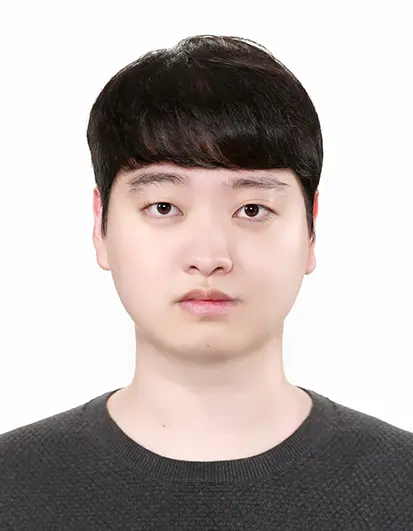
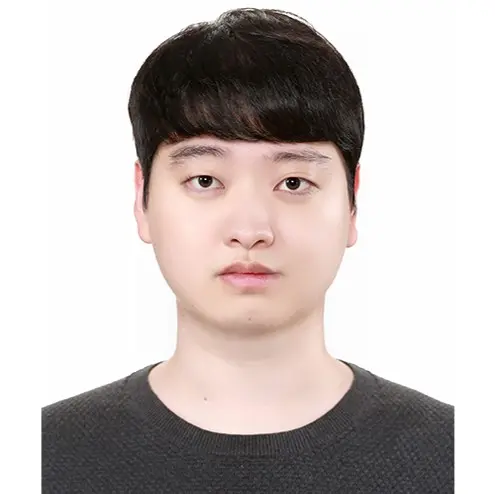
Deploying to gh-pages from @ wooseoko/wooseoko.github.io@730e02e3a853a47fd84349afb3dc7826c92dd033 🚀

Changed region(s): [[0.0, 0.0, 1.0, 1.0], [0.4068, 0.4555, 0.5811, 0.6073], [0.3777, 0.8502, 0.6392, 0.8806]]

diff --git a/blog/2024/tabs/index.html b/blog/2024/tabs/index.html
@@ -19,16 +19,16 @@ Content 2
 <span class="cp">{%</span><span class="w"> </span><span class="nt">endtab</span><span class="w"> </span><span class="cp">%}</span>
 
 <span class="cp">{%</span><span class="w"> </span><span class="nt">endtabs</span><span class="w"> </span><span class="cp">%}</span>
-</code></pre></div></div> <p>With this you can generate visualizations like:</p> <ul id="log" class="tab" data-tab="db6fb8b9-263d-4b99-9659-1e528dee1ef8" data-name="log"> <li class="active" id="log-php"> <a href="#">php </a> </li> <li id="log-js"> <a href="#">js </a> </li> <li id="log-ruby"> <a href="#">ruby </a> </li> </ul> <ul class="tab-content" id="db6fb8b9-263d-4b99-9659-1e528dee1ef8" data-name="log"> <li class="active"> <div class="language-php highlighter-rouge"><div class="highlight"><pre class="highlight"><code><span class="nb">var_dump</span><span class="p">(</span><span class="s1">'hello'</span><span class="p">);</span>
+</code></pre></div></div> <p>With this you can generate visualizations like:</p> <ul id="log" class="tab" data-tab="b5159fd2-4899-4e4c-800e-6d6f61d3722c" data-name="log"> <li class="active" id="log-php"> <a href="#">php </a> </li> <li id="log-js"> <a href="#">js </a> </li> <li id="log-ruby"> <a href="#">ruby </a> </li> </ul> <ul class="tab-content" id="b5159fd2-4899-4e4c-800e-6d6f61d3722c" data-name="log"> <li class="active"> <div class="language-php highlighter-rouge"><div class="highlight"><pre class="highlight"><code><span class="nb">var_dump</span><span class="p">(</span><span class="s1">'hello'</span><span class="p">);</span>
 </code></pre></div></div> </li> <li> <div class="language-javascript highlighter-rouge"><div class="highlight"><pre class="highlight"><code><span class="nx">console</span><span class="p">.</span><span class="nf">log</span><span class="p">(</span><span class="dl">"</span><span class="s2">hello</span><span class="dl">"</span><span class="p">);</span>
 </code></pre></div></div> </li> <li> <div class="language-javascript highlighter-rouge"><div class="highlight"><pre class="highlight"><code><span class="nx">pputs</span> <span class="dl">'</span><span class="s1">hello</span><span class="dl">'</span>
-</code></pre></div></div> </li> </ul> <h2 id="another-example">Another example</h2> <ul id="data-struct" class="tab" data-tab="84087827-c1df-4ecc-9564-791a2fa6b5cb" data-name="data-struct"> <li class="active" id="data-struct-yaml"> <a href="#">yaml </a> </li> <li id="data-struct-json"> <a href="#">json </a> </li> </ul> <ul class="tab-content" id="84087827-c1df-4ecc-9564-791a2fa6b5cb" data-name="data-struct"> <li class="active"> <div class="language-yaml highlighter-rouge"><div class="highlight"><pre class="highlight"><code><span class="na">hello</span><span class="pi">:</span>
+</code></pre></div></div> </li> </ul> <h2 id="another-example">Another example</h2> <ul id="data-struct" class="tab" data-tab="c7e196fa-abf6-471b-ac77-4539e5d44a09" data-name="data-struct"> <li class="active" id="data-struct-yaml"> <a href="#">yaml </a> </li> <li id="data-struct-json"> <a href="#">json </a> </li> </ul> <ul class="tab-content" id="c7e196fa-abf6-471b-ac77-4539e5d44a09" data-name="data-struct"> <li class="active"> <div class="language-yaml highlighter-rouge"><div class="highlight"><pre class="highlight"><code><span class="na">hello</span><span class="pi">:</span>
   <span class="pi">-</span> <span class="s2">"</span><span class="s">whatsup"</span>
   <span class="pi">-</span> <span class="s2">"</span><span class="s">hi"</span>
 </code></pre></div></div> </li> <li> <div class="language-json highlighter-rouge"><div class="highlight"><pre class="highlight"><code><span class="p">{</span><span class="w">
   </span><span class="nl">"hello"</span><span class="p">:</span><span class="w"> </span><span class="p">[</span><span class="s2">"whatsup"</span><span class="p">,</span><span class="w"> </span><span class="s2">"hi"</span><span class="p">]</span><span class="w">
 </span><span class="p">}</span><span class="w">
-</span></code></pre></div></div> </li> </ul> <h2 id="tabs-for-something-else">Tabs for something else</h2> <ul id="something-else" class="tab" data-tab="be1ae5fd-ae4f-4596-b5bb-e21af83265f5" data-name="something-else"> <li class="active" id="something-else-text"> <a href="#">text </a> </li> <li id="something-else-quote"> <a href="#">quote </a> </li> <li id="something-else-list"> <a href="#">list </a> </li> </ul> <ul class="tab-content" id="be1ae5fd-ae4f-4596-b5bb-e21af83265f5" data-name="something-else"> <li class="active"> <p>Regular text</p> </li> <li> <blockquote> <p>A quote</p> </blockquote> </li> <li> <p>Hipster list</p> <ul> <li>brunch</li> <li>fixie</li> <li>raybans</li> <li>messenger bag</li> </ul> </li> </ul> </div> </article> <br> <hr> <br> <h2 class="text-3xl font-semibold mb-4 mt-12">Enjoy Reading This Article?</h2> <p class="mb-2">Here are some more articles you might like to read next:</p> <ul class="list-disc pl-7 my-3 space-y-2 marker:text-[var(--global-theme-color)]"> <li class="leading-relaxed"> <a class="underline decoration-1 hover:text-[var(--global-hover-color)]" href="https://blog.google/technology/ai/google-gemini-update-flash-ai-assistant-io-2024/" target="_blank" rel="noopener noreferrer">Google Gemini updates: Flash 1.5, Gemma 2 and Project Astra</a> <svg width="1rem" height="1rem" viewbox="0 0 30 30" xmlns="http://www.w3.org/2000/svg" aria-hidden="true"> <path d="M17 13.5v6H5v-12h6m3-3h6v6m0-6-9 9" class="icon_svg-stroke" stroke="#999" stroke-width="1.5" fill="none" fill-rule="evenodd" stroke-linecap="round" stroke-linejoin="round"></path> </svg> </li> <li class="leading-relaxed"> <a class="underline decoration-1 hover:text-[var(--global-hover-color)]" href="https://medium.com/@al-folio/displaying-external-posts-on-your-al-folio-blog-b60a1d241a0a?source=rss-17feae71c3c4------2" target="_blank" rel="noopener noreferrer">Displaying External Posts on Your al-folio Blog</a> <svg width="1rem" height="1rem" viewbox="0 0 30 30" xmlns="http://www.w3.org/2000/svg" aria-hidden="true"> <path d="M17 13.5v6H5v-12h6m3-3h6v6m0-6-9 9" class="icon_svg-stroke" stroke="#999" stroke-width="1.5" fill="none" fill-rule="evenodd" stroke-linecap="round" stroke-linejoin="round"></path> </svg> </li> <li class="leading-relaxed"> <a class="underline decoration-1 hover:text-[var(--global-hover-color)]" href="/blog/2025/marimo/">a post with marimo snippets</a> </li> <li class="leading-relaxed"> <a class="underline decoration-1 hover:text-[var(--global-hover-color)]" href="/blog/2025/plotly/">a post with plotly.js</a> </li> <li class="leading-relaxed"> <a class="underline decoration-1 hover:text-[var(--global-hover-color)]" href="/blog/2024/photo-gallery/">a post with image galleries</a> </li> <li class="leading-relaxed"> <a class="underline decoration-1 hover:text-[var(--global-hover-color)]" href="/blog/2024/typograms/">a post with typograms</a> </li> <li class="leading-relaxed"> <a class="underline decoration-1 hover:text-[var(--global-hover-color)]" href="/blog/2024/post-citation/">a post that can be cited</a> </li> <li class="leading-relaxed"> <a class="underline decoration-1 hover:text-[var(--global-hover-color)]" href="/blog/2024/pseudocode/">a post with pseudo code</a> </li> <li class="leading-relaxed"> <a class="underline decoration-1 hover:text-[var(--global-hover-color)]" href="/blog/2024/code-diff/">a post with code diff</a> </li> <li class="leading-relaxed"> <a class="underline decoration-1 hover:text-[var(--global-hover-color)]" href="/blog/2024/advanced-images/">a post with advanced image components</a> </li> </ul> </div> </div> <footer class="fixed-bottom" role="contentinfo"> <div class="container mt-0"> © Copyright 2026 Wooseok Oh. Powered by <a href="https://jekyllrb.com/" target="_blank" rel="external nofollow noopener">Jekyll</a> with <a href="https://github.com/alshedivat/al-folio" rel="external nofollow noopener" target="_blank">al-folio</a> theme. Hosted by <a href="https://pages.github.com/" target="_blank" rel="external nofollow noopener">GitHub Pages</a>. Photos from <a href="https://unsplash.com" target="_blank" rel="external nofollow noopener">Unsplash</a>. </div> </footer> <script>
+</span></code></pre></div></div> </li> </ul> <h2 id="tabs-for-something-else">Tabs for something else</h2> <ul id="something-else" class="tab" data-tab="8fc05041-0a38-4eff-8840-cad3de08f34a" data-name="something-else"> <li class="active" id="something-else-text"> <a href="#">text </a> </li> <li id="something-else-quote"> <a href="#">quote </a> </li> <li id="something-else-list"> <a href="#">list </a> </li> </ul> <ul class="tab-content" id="8fc05041-0a38-4eff-8840-cad3de08f34a" data-name="something-else"> <li class="active"> <p>Regular text</p> </li> <li> <blockquote> <p>A quote</p> </blockquote> </li> <li> <p>Hipster list</p> <ul> <li>brunch</li> <li>fixie</li> <li>raybans</li> <li>messenger bag</li> </ul> </li> </ul> </div> </article> <br> <hr> <br> <h2 class="text-3xl font-semibold mb-4 mt-12">Enjoy Reading This Article?</h2> <p class="mb-2">Here are some more articles you might like to read next:</p> <ul class="list-disc pl-7 my-3 space-y-2 marker:text-[var(--global-theme-color)]"> <li class="leading-relaxed"> <a class="underline decoration-1 hover:text-[var(--global-hover-color)]" href="https://blog.google/technology/ai/google-gemini-update-flash-ai-assistant-io-2024/" target="_blank" rel="noopener noreferrer">Google Gemini updates: Flash 1.5, Gemma 2 and Project Astra</a> <svg width="1rem" height="1rem" viewbox="0 0 30 30" xmlns="http://www.w3.org/2000/svg" aria-hidden="true"> <path d="M17 13.5v6H5v-12h6m3-3h6v6m0-6-9 9" class="icon_svg-stroke" stroke="#999" stroke-width="1.5" fill="none" fill-rule="evenodd" stroke-linecap="round" stroke-linejoin="round"></path> </svg> </li> <li class="leading-relaxed"> <a class="underline decoration-1 hover:text-[var(--global-hover-color)]" href="https://medium.com/@al-folio/displaying-external-posts-on-your-al-folio-blog-b60a1d241a0a?source=rss-17feae71c3c4------2" target="_blank" rel="noopener noreferrer">Displaying External Posts on Your al-folio Blog</a> <svg width="1rem" height="1rem" viewbox="0 0 30 30" xmlns="http://www.w3.org/2000/svg" aria-hidden="true"> <path d="M17 13.5v6H5v-12h6m3-3h6v6m0-6-9 9" class="icon_svg-stroke" stroke="#999" stroke-width="1.5" fill="none" fill-rule="evenodd" stroke-linecap="round" stroke-linejoin="round"></path> </svg> </li> <li class="leading-relaxed"> <a class="underline decoration-1 hover:text-[var(--global-hover-color)]" href="/blog/2025/marimo/">a post with marimo snippets</a> </li> <li class="leading-relaxed"> <a class="underline decoration-1 hover:text-[var(--global-hover-color)]" href="/blog/2025/plotly/">a post with plotly.js</a> </li> <li class="leading-relaxed"> <a class="underline decoration-1 hover:text-[var(--global-hover-color)]" href="/blog/2024/photo-gallery/">a post with image galleries</a> </li> <li class="leading-relaxed"> <a class="underline decoration-1 hover:text-[var(--global-hover-color)]" href="/blog/2024/typograms/">a post with typograms</a> </li> <li class="leading-relaxed"> <a class="underline decoration-1 hover:text-[var(--global-hover-color)]" href="/blog/2024/post-citation/">a post that can be cited</a> </li> <li class="leading-relaxed"> <a class="underline decoration-1 hover:text-[var(--global-hover-color)]" href="/blog/2024/pseudocode/">a post with pseudo code</a> </li> <li class="leading-relaxed"> <a class="underline decoration-1 hover:text-[var(--global-hover-color)]" href="/blog/2024/code-diff/">a post with code diff</a> </li> <li class="leading-relaxed"> <a class="underline decoration-1 hover:text-[var(--global-hover-color)]" href="/blog/2024/advanced-images/">a post with advanced image components</a> </li> </ul> </div> </div> <footer class="fixed-bottom" role="contentinfo"> <div class="container mt-0"> © Copyright 2026 Wooseok Oh. Powered by <a href="https://jekyllrb.com/" target="_blank" rel="external nofollow noopener">Jekyll</a> with <a href="https://github.com/alshedivat/al-folio" rel="external nofollow noopener" target="_blank">al-folio</a> theme. Hosted by <a href="https://pages.github.com/" target="_blank" rel="external nofollow noopener">GitHub Pages</a>. Photos from <a href="https://unsplash.com" target="_blank" rel="external nofollow noopener">Unsplash</a>. </div> </footer> <script>
   window.alFolio = {
     compatBootstrap: false
   };

diff --git a/index.html b/index.html
@@ -138,7 +138,7 @@
       height: 135px !important;
     }
   }
-</style> <div class="post about-shell"> <aside class="about-sidebar"> <div class="about-sidebar-photo"> <figure> <picture> <source class="responsive-img-srcset" srcset="/assets/img/wooseoko_image-480.webp 480w,/assets/img/wooseoko_image-800.webp 800w,/assets/img/wooseoko_image-1400.webp 1400w," type="image/webp" sizes="95vw"> <img src="/assets/img/wooseoko_image.jpg?v=096bd6573fbfdfebadfa8861d97404bf" class="img-fluid z-depth-1" width="100%" height="auto" alt="wooseoko_image.jpg" loading="eager" onerror="this.onerror=null; document.querySelectorAll('.responsive-img-srcset').forEach(function (n) { n.remove(); });"> </source></picture> </figure> </div> <div class="about-sidebar-details"> <div class="social"> <div class="contact-icons"> <a href="/assets/pdf/cv_wooseoko.pdf" title="Cv pdf"><i class="ai ai-cv"></i></a> <a href="mailto:wooseok.oh@rllab.snu.ac.kr" title="Email"><i class="fa-solid fa-envelope"></i></a> <a href="https://scholar.google.com/citations?user=pdu5u58AAAAJ" title="Scholar userid" rel="external nofollow noopener" target="_blank"><i class="ai ai-google-scholar"></i></a> <a href="https://github.com/wooseoko" title="Github username" rel="external nofollow noopener" target="_blank"><i class="fa-brands fa-github"></i></a> <a href="https://www.linkedin.com/in/wooseok-oh-114681250" title="Linkedin username" rel="external nofollow noopener" target="_blank"><i class="fa-brands fa-linkedin"></i></a> </div> <div class="contact-note"></div> </div> </div> </aside> <header class="post-header"> <h1 class="post-title"> Wooseok Oh </h1> </header> <article> <div class="clearfix"> <p>I’m a Ph.D. candidate in the <a href="https://rllab.snu.ac.kr/" rel="external nofollow noopener" target="_blank">Robot Learning Lab (RLLab)</a> at Seoul National University, advised by Professor <a href="https://rllab.snu.ac.kr/people/songhwai-oh" rel="external nofollow noopener" target="_blank">Songhwai Oh</a>. Before starting my Ph.D., I received my B.S. in Electrical and Computer Engineering from Seoul National University in 2020.</p> <p>My research interests lie broadly in <strong>robot learning</strong>, with a particular focus on <strong>vision-language-action (VLA) models</strong>, <strong>high-level planning</strong>, and <strong>humanoid robotics</strong>.</p> </div> <section class="selected-publications-section"> <h2> <a href="/publications/" style="color: inherit"> selected publications </a> </h2> <div class="publications"> <ol class="bibliography"> <li> <style>
+</style> <div class="post about-shell"> <aside class="about-sidebar"> <div class="about-sidebar-photo"> <figure> <picture> <source class="responsive-img-srcset" srcset="/assets/img/wooseoko_image-480.webp 480w,/assets/img/wooseoko_image-800.webp 800w,/assets/img/wooseoko_image-1400.webp 1400w," type="image/webp" sizes="95vw"> <img src="/assets/img/wooseoko_image.jpg?v=d26bdbb4674628887fe2755af5ee35fc" class="img-fluid z-depth-1" width="100%" height="auto" alt="wooseoko_image.jpg" loading="eager" onerror="this.onerror=null; document.querySelectorAll('.responsive-img-srcset').forEach(function (n) { n.remove(); });"> </source></picture> </figure> </div> <div class="about-sidebar-details"> <div class="social"> <div class="contact-icons"> <a href="/assets/pdf/cv_wooseoko.pdf" title="Cv pdf"><i class="ai ai-cv"></i></a> <a href="mailto:wooseok.oh@rllab.snu.ac.kr" title="Email"><i class="fa-solid fa-envelope"></i></a> <a href="https://scholar.google.com/citations?user=pdu5u58AAAAJ" title="Scholar userid" rel="external nofollow noopener" target="_blank"><i class="ai ai-google-scholar"></i></a> <a href="https://github.com/wooseoko" title="Github username" rel="external nofollow noopener" target="_blank"><i class="fa-brands fa-github"></i></a> <a href="https://www.linkedin.com/in/wooseok-oh-114681250" title="Linkedin username" rel="external nofollow noopener" target="_blank"><i class="fa-brands fa-linkedin"></i></a> </div> <div class="contact-note"></div> </div> </div> </aside> <header class="post-header"> <h1 class="post-title"> Wooseok Oh </h1> </header> <article> <div class="clearfix"> <p>I’m a Ph.D. candidate in the <a href="https://rllab.snu.ac.kr/" rel="external nofollow noopener" target="_blank">Robot Learning Lab (RLLab)</a> at Seoul National University, advised by Professor <a href="https://rllab.snu.ac.kr/people/songhwai-oh" rel="external nofollow noopener" target="_blank">Songhwai Oh</a>. Before starting my Ph.D., I received my B.S. in Electrical and Computer Engineering from Seoul National University in 2020.</p> <p>My research interests lie broadly in <strong>robot learning</strong>, with a particular focus on <strong>vision-language-action (VLA) models</strong>, <strong>high-level planning</strong>, and <strong>humanoid robotics</strong>.</p> </div> <section class="selected-publications-section"> <h2> <a href="/publications/" style="color: inherit"> selected publications </a> </h2> <div class="publications"> <ol class="bibliography"> <li> <style>
   .pub-custom-row {
     display: flex;
     flex-wrap: nowrap;

diff --git a/assets/jupyter/blog.ipynb.html b/assets/jupyter/blog.ipynb.html
@@ -1,4 +1,4 @@
-<!DOCTYPE html> <html lang="en"> <head><meta charset="utf-8"/> <meta content="width=device-width, initial-scale=1.0" name="viewport"/> <title>jekyll-jupyter-notebook20260827-3351-nv53qe</title><script src="https://cdnjs.cloudflare.com/ajax/libs/require.js/2.1.10/require.min.js"></script> <style type="text/css">
+<!DOCTYPE html> <html lang="en"> <head><meta charset="utf-8"/> <meta content="width=device-width, initial-scale=1.0" name="viewport"/> <title>jekyll-jupyter-notebook20260827-3375-aacnog</title><script src="https://cdnjs.cloudflare.com/ajax/libs/require.js/2.1.10/require.min.js"></script> <style type="text/css">
     pre { line-height: 125%; }
 td.linenos .normal { color: inherit; background-color: transparent; padding-left: 5px; padding-right: 5px; }
 span.linenos { color: inherit; background-color: transparent; padding-left: 5px; padding-right: 5px; }
